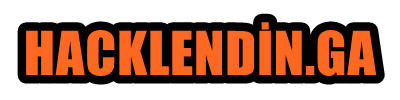
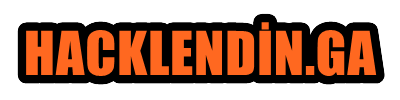
update

diff --git a/index.html b/index.html
@@ -1,6 +1,16 @@
 <!DOCTYPE html>
 <head>
-        <img src="img/hack.png" alt="Başlık" height="60" width="240">
+        <meta name="viewport" content="width=device-width, initial-scale=1">
+        <style>
+            body{background-color: rgb(119, 197, 191)}
+        img {
+
+          display: block;
+          margin-left: auto;
+          margin-right: auto;
+        }
+        </style>
+        <img  src="img/hack.png" alt="Başlık" style="width:15%;">
 
     <link rel="shortcut icon" href="img/Hospital_Sign-512.png">
       </head>
